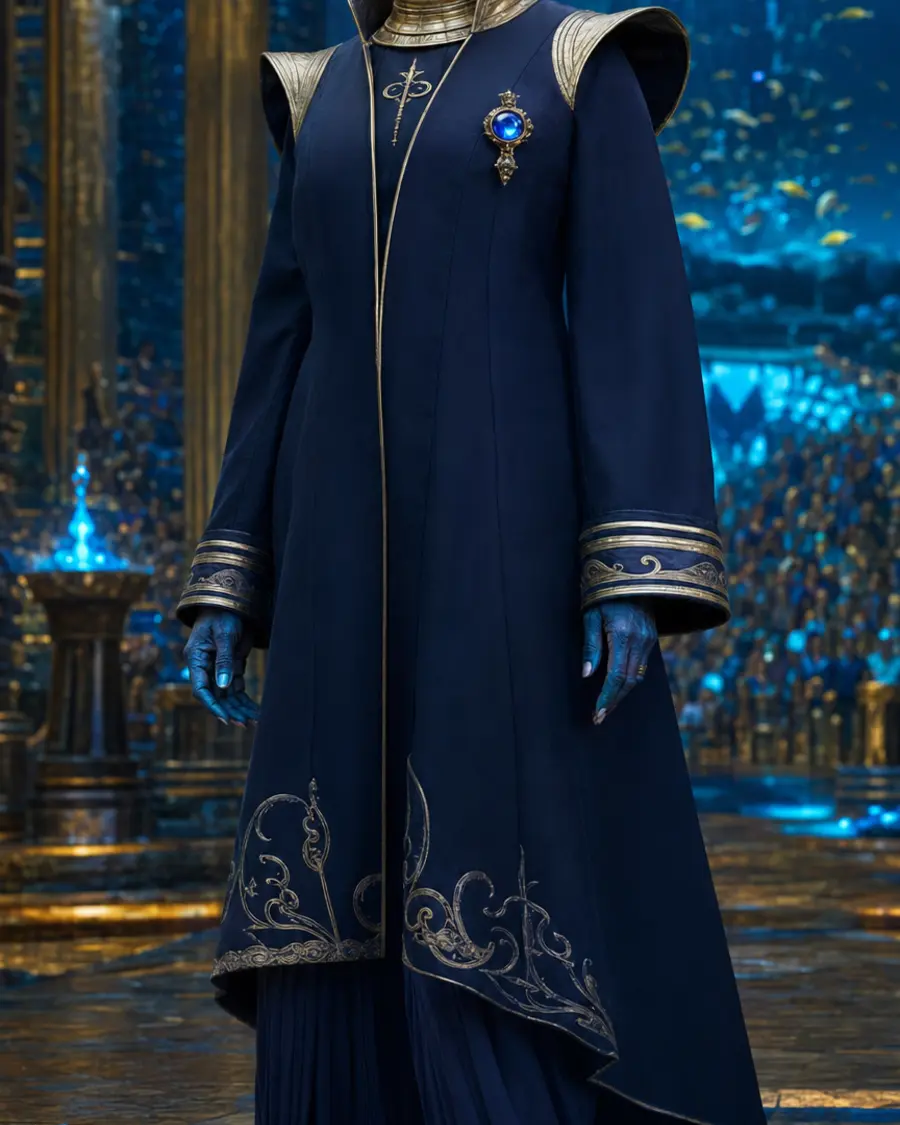
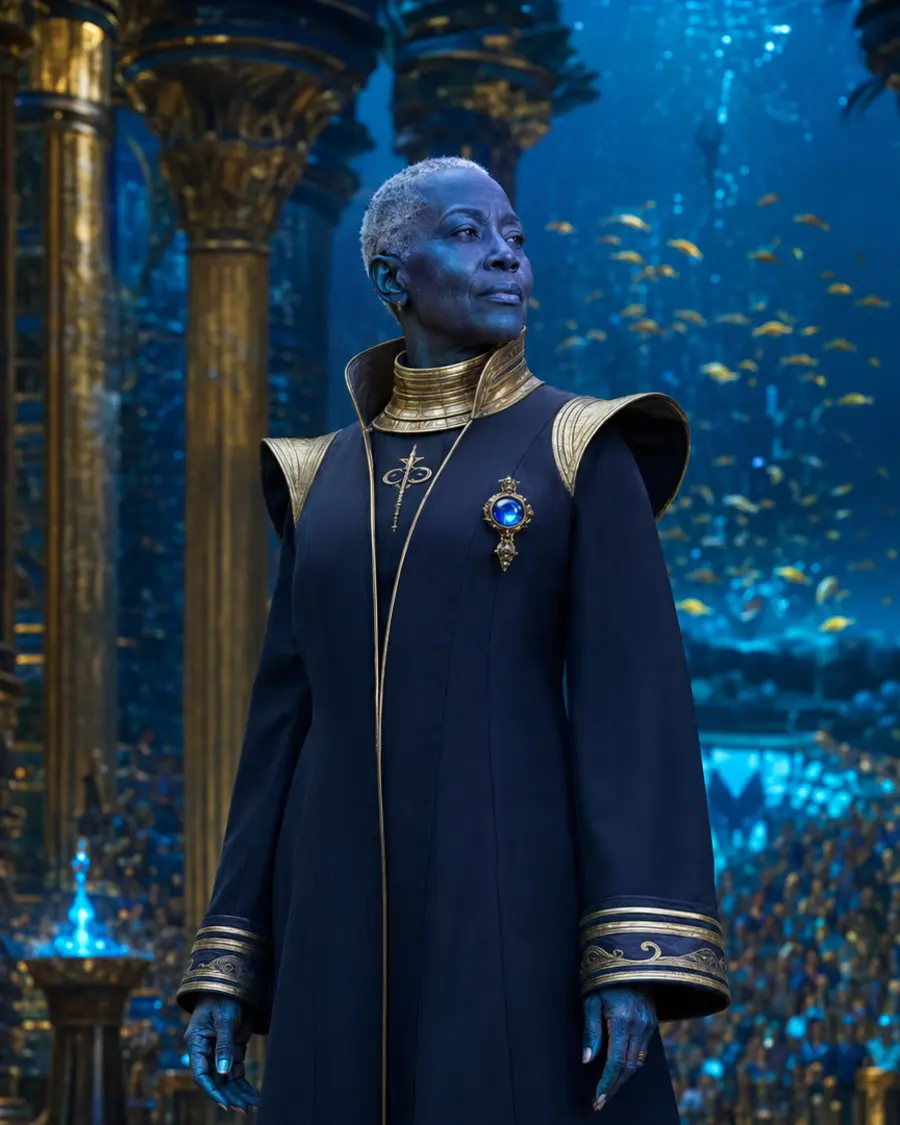
Fix Festival Citizens portrait framing

diff --git a/app/globals.css b/app/globals.css
@@ -164,7 +164,7 @@ body {
   scroll-snap-align: start;
   background: #111;
 }
-.citizen-card img { width: 100%; height: 100%; object-fit: cover; transition: transform 1s cubic-bezier(.2,.8,.2,1); }
+.citizen-card img { width: 100%; height: 100%; object-fit: cover; object-position: center top; transition: transform 1s cubic-bezier(.2,.8,.2,1); }
 .citizen-card:hover img { transform: scale(1.035); }
 .citizen-shade { position: absolute; inset: 0; background: linear-gradient(transparent 45%, rgba(0,0,0,.9)); }
 .citizen-copy { position: absolute; inset: auto 0 0; padding: 1.5rem; }
